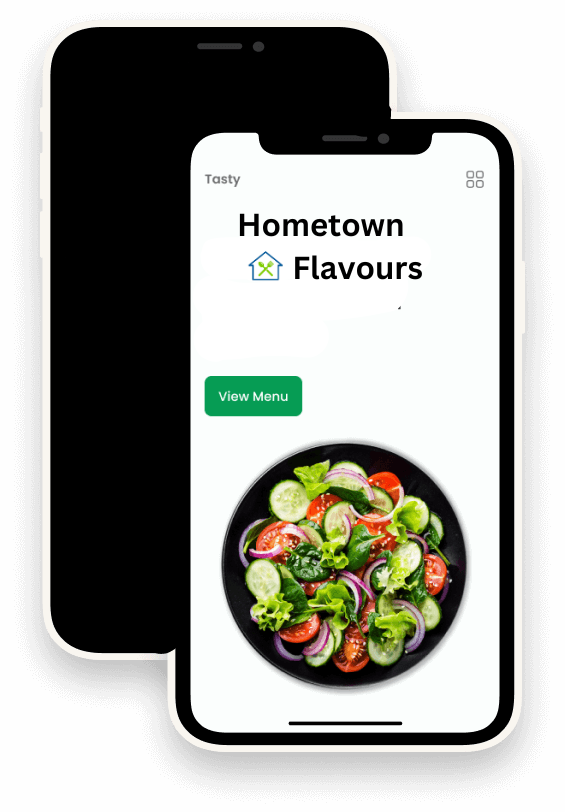
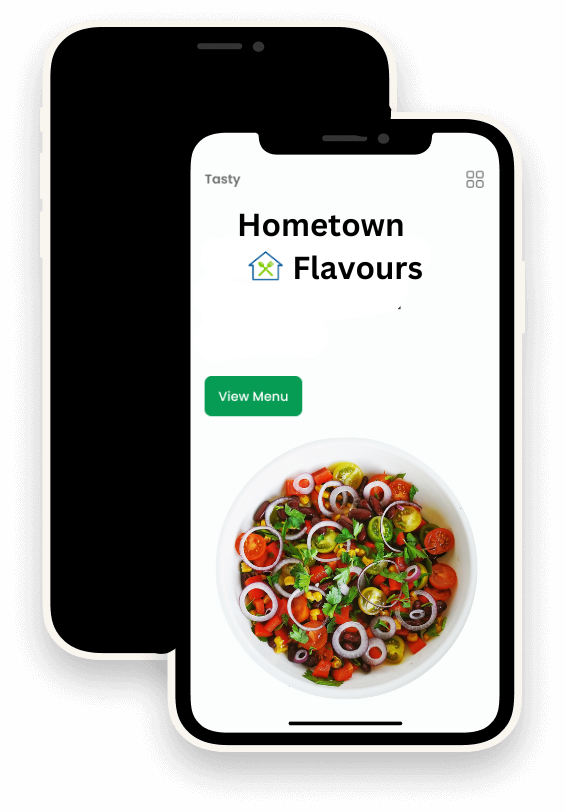
updated webpage

Changed region(s): [[0.3912, 0.5234, 0.8425, 0.8621]]

diff --git a/assets/css/styles.css b/assets/css/styles.css
@@ -1,13 +1,13 @@
-/*===== GOOGLE FONTS =====*/
+/*GOOGLE FONTS*/
 @import url("https://fonts.googleapis.com/css2?family=Poppins:wght@400;500;600&display=swap");
 
 
-/*===== VARIABLES CSS =====*/
+/*VARIABLES CSS*/
 :root {
   --header-height: 3rem;
 
-  /*========== Colors ==========*/
-  --first-color: #069C54;
+  /* Colors */
+  --first-color: #938805;
   --first-color-alt: #048654;
   --title-color: #393939;
   --text-color: #707070;
@@ -15,7 +15,7 @@
   --body-color: #FBFEFD;
   --container-color: #FFFFFF;
 
-  /*========== Font and typography ==========*/
+  /*Font and typography*/
   --body-font: 'Poppins', sans-serif;
   --biggest-font-size: 2.25rem;
   --h1-font-size: 1.5rem;
@@ -25,11 +25,11 @@
   --small-font-size: .813rem;
   --smaller-font-size: .75rem;
 
-  /*========== Font weight ==========*/
+  /*Font weight*/
   --font-medium: 500;
   --font-semi-bold: 600;
 
-  /*========== Margenes ==========*/
+  /*Margenes*/
   --mb-1: .5rem;
   --mb-2: 1rem;
   --mb-3: 1.5rem;
@@ -37,7 +37,7 @@
   --mb-5: 2.5rem;
   --mb-6: 3rem;
 
-  /*========== z index ==========*/
+  /* index */
   --z-tooltip: 10;
   --z-fixed: 100;
 }
@@ -54,7 +54,7 @@
   }
 }
 
-/*========== BASE ==========*/
+/*BASE*/
 *,::before,::after{
   box-sizing: border-box;
 }
@@ -63,7 +63,7 @@ html{
   scroll-behavior: smooth;
 }
 
-/*========== Variables Dark theme ==========*/
+/*Variables Dark theme*/
 body.dark-theme{
   --title-color: #F1F3F2;
   --text-color: #C7D1CC;
@@ -71,7 +71,7 @@ body.dark-theme{
   --container-color: #27302C;
 }
 
-/*========== Button Dark/Light ==========*/
+/*Button Dark/Light*/
 .change-theme{
   position: absolute;
   right: 1rem;
@@ -108,7 +108,7 @@ img{
   height: auto;
 }
 
-/*========== CLASS CSS ==========*/
+/*CLASS CSS*/
 .section{
   padding: 4rem 0 2rem;
 }
@@ -130,7 +130,7 @@ img{
   margin-bottom: var(--mb-1);
 }
 
-/*========== LAYOUT ==========*/
+/*LAYOUT*/
 .bd-container{
   max-width: 960px;
   width: calc(100% - 2rem);
@@ -152,7 +152,7 @@ img{
   background-color: var(--body-color);
 }
 
-/*========== NAV ==========*/
+/*NAV*/
 .nav{
   max-width: 1024px;
   height: var(--header-height);
@@ -517,7 +517,7 @@ img{
   }
 
   .home__container{
-    height: 100vh;
+    height: 200vh;
     justify-items: center;
   }
 

diff --git a/index.html b/index.html
@@ -59,7 +59,7 @@
                         <a href="#" class="button"> << &nbsp;  ORDER NOW  &nbsp;  >></a>
                     </div>
     
-                    <img src="assets/img/home.png" alt="" class="home__img">
+                    <img src="assets/img/about.png" alt="" class="home__img">
                 </div>
             </section>
             
@@ -229,7 +229,7 @@
                     </div>
 
                     <div class="contact__button">
-                        <a href="#" class="button">Contact us now</a>
+                        <a href="https://www.instagram.com/suraj.padala/" class="button">Contact us now</a>
                     </div>
                 </div>
             </section>
@@ -242,9 +242,9 @@
                     <a href="#" class="footer__logo">Hometown Flavours</a>
                     <span class="footer__description">Website</span>
                     <div>
-                        <a href="#" class="footer__social"><i class='bx bxl-facebook'></i></a>
-                        <a href="#" class="footer__social"><i class='bx bxl-instagram'></i></a>
-                        <a href="#" class="footer__social"><i class='bx bxl-twitter'></i></a>
+                        <a href="https://www.instagram.com/suraj.padala/" class="footer__social"><i class='bx bxl-facebook'></i></a>
+                        <a href="https://www.instagram.com/suraj.padala/" class="footer__social"><i class='bx bxl-instagram'></i></a>
+                        <a href="https://twitter.com/SurajPadala" class="footer__social"><i class='bx bxl-twitter'></i></a>
                     </div>
                 </div>
 
@@ -260,7 +260,7 @@
                 <div class="footer__content">
                     <h3 class="footer__title">Information</h3>
                     <ul>
-                        <li><a href="#" class="footer__link">Contact us</a></li>
+                        <li><a href="https://www.instagram.com/suraj.padala/" class="footer__link">Contact us</a></li>
                         <li><a href="#" class="footer__link">Privacy policy</a></li>
                         <li><a href="#" class="footer__link">Terms of services</a></li>
                     </ul>
